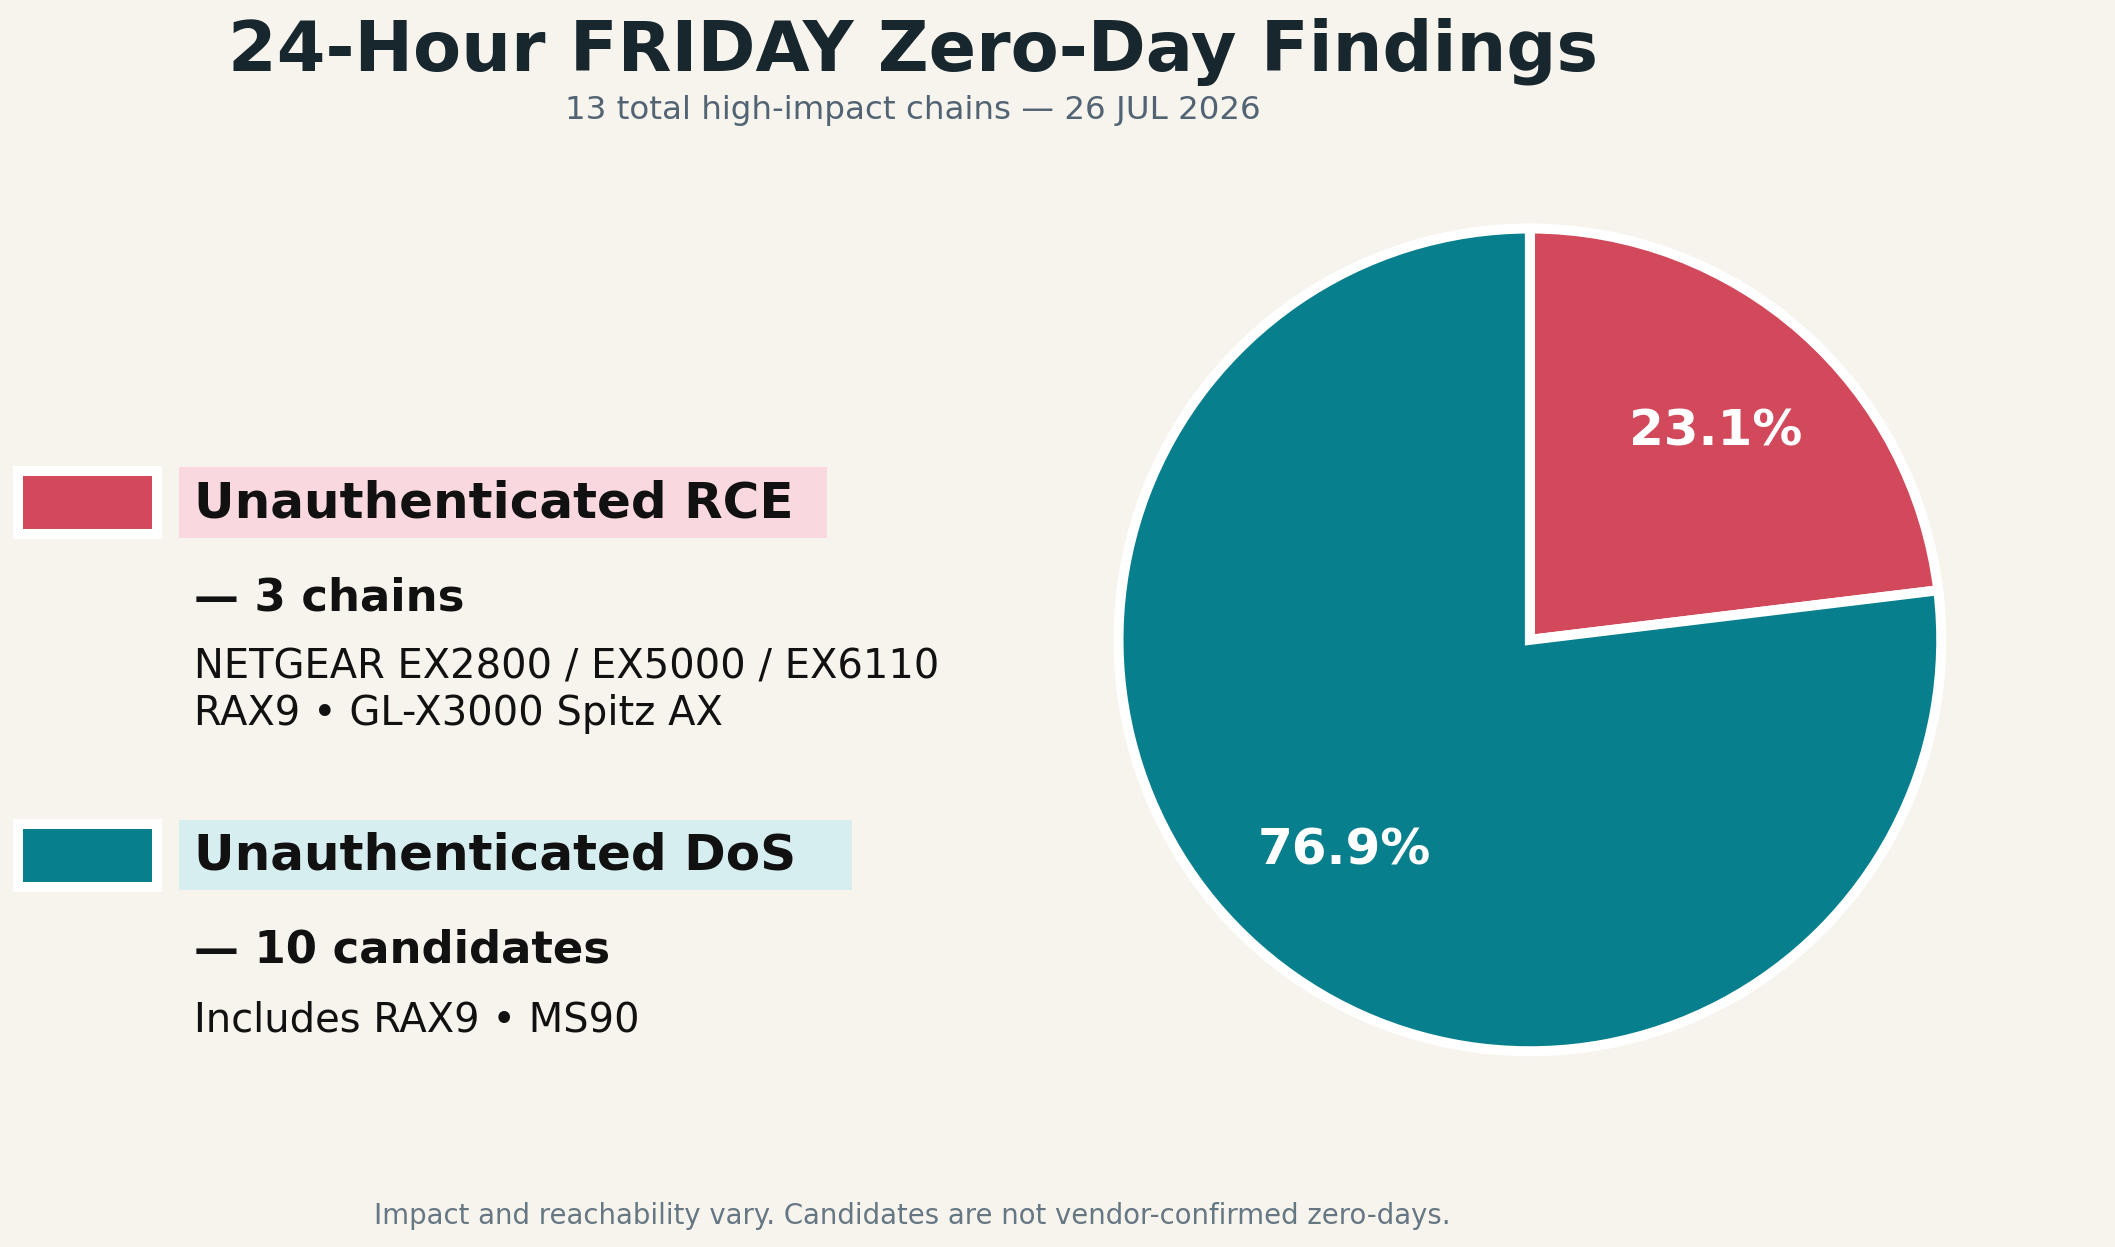
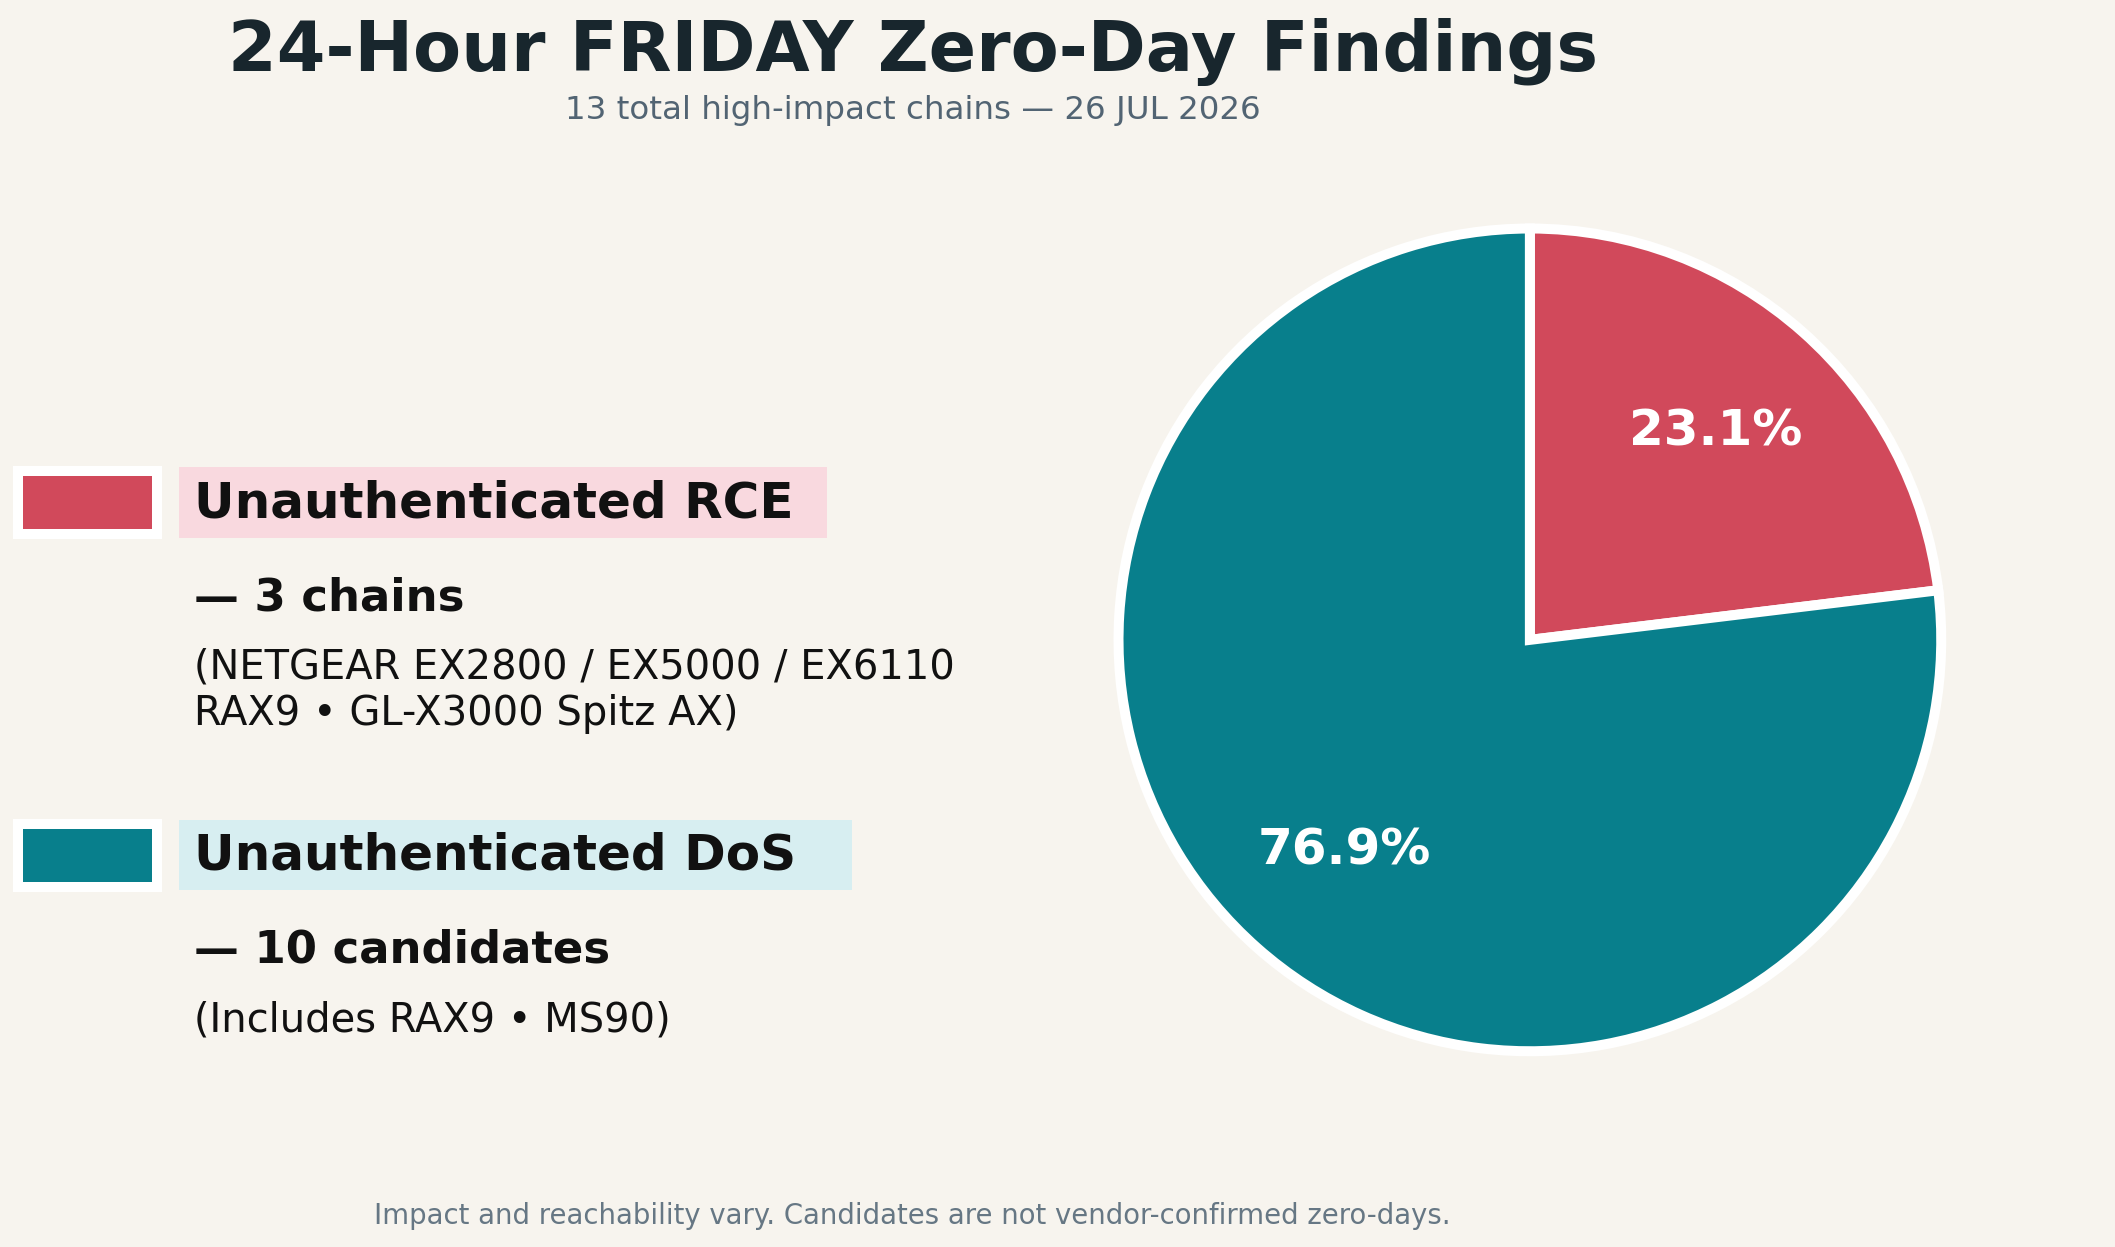
Parenthesize router examples in chart key

Changed region(s): [[0.0936, 0.518, 0.4681, 0.5485], [0.0936, 0.7923, 0.3121, 0.8532]]

diff --git a/scripts/build_24_hour_findings_pie.py b/scripts/build_24_hour_findings_pie.py
@@ -45,7 +45,7 @@ def main() -> None:
             labels[0],
             f"— {counts[0]} chains",
             0.245,
-            "NETGEAR EX2800 / EX5000 / EX6110\nRAX9 • GL-X3000 Spitz AX",
+            "(NETGEAR EX2800 / EX5000 / EX6110\nRAX9 • GL-X3000 Spitz AX)",
         ),
         (
             colors[1],
@@ -54,7 +54,7 @@ def main() -> None:
             labels[1],
             f"— {counts[1]} candidates",
             0.255,
-            "Includes RAX9 • MS90",
+            "(Includes RAX9 • MS90)",
         ),
     ):
         fig.add_artist(
